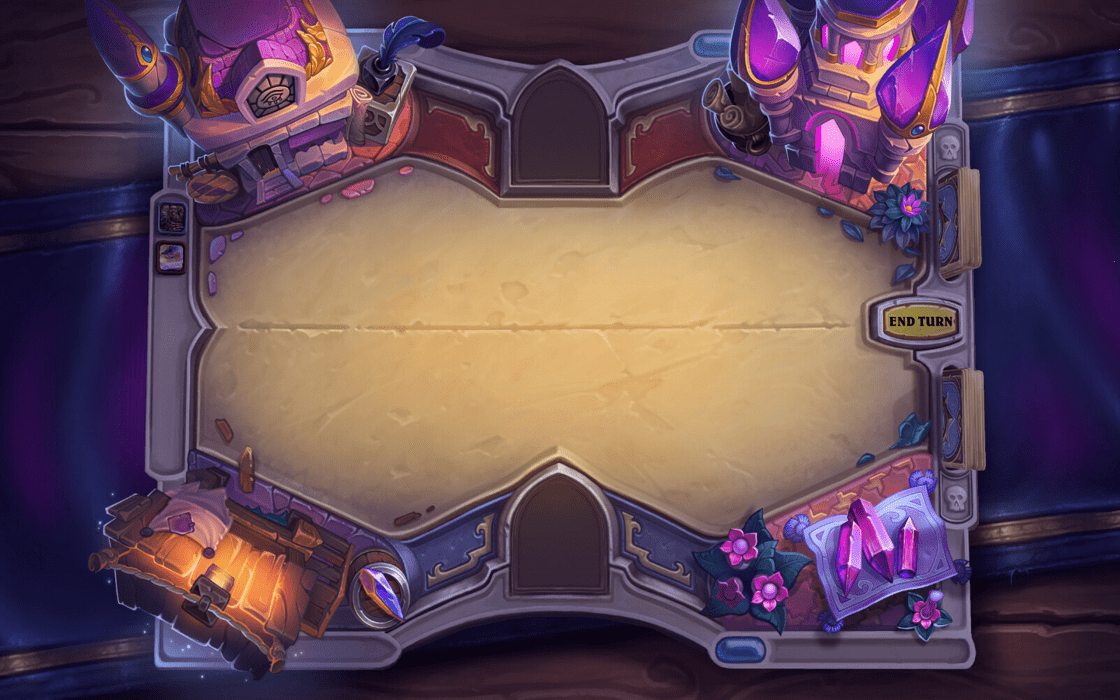
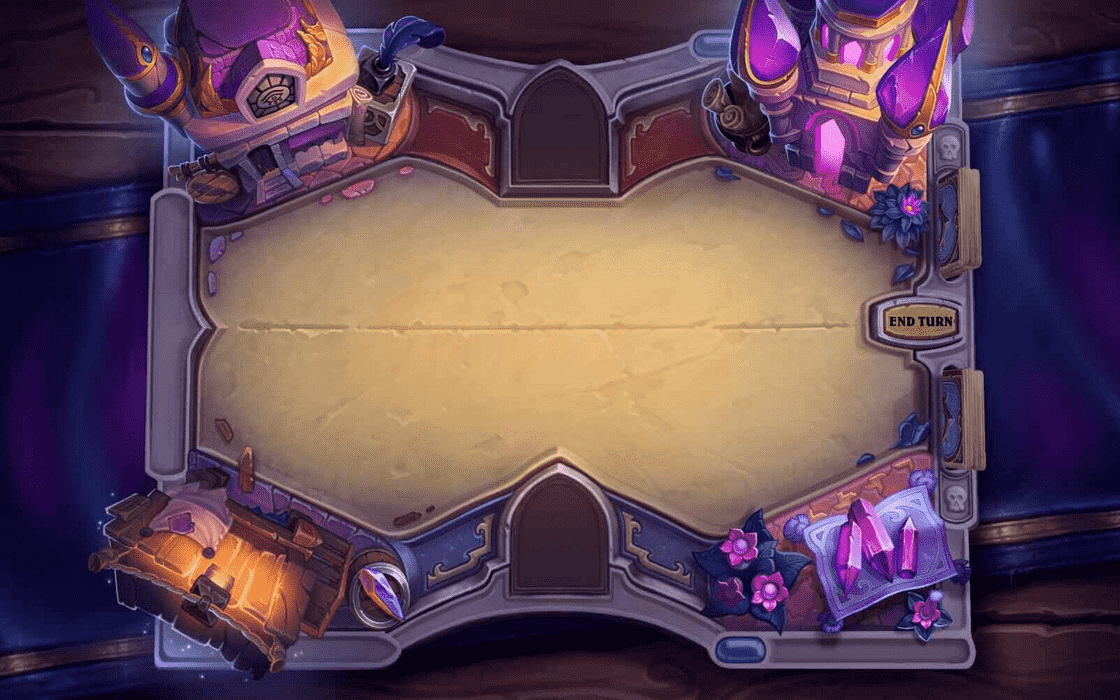
Hero power ability added to game board. Hero power images added to resources. font of "Favorite card : no card" changed.

diff --git a/src/java/hearthstone/gui/game/play/controls/HeroPowerButton.java b/src/java/hearthstone/gui/game/play/controls/HeroPowerButton.java
@@ -1,0 +1,82 @@
+package hearthstone.gui.game.play.controls;
+
+import hearthstone.gui.controls.ImageButton;
+import hearthstone.gui.credetials.CredentialsFrame;
+import hearthstone.logic.models.card.cards.HeroPowerCard;
+
+import javax.imageio.ImageIO;
+import java.awt.*;
+import java.awt.font.FontRenderContext;
+import java.awt.image.BufferedImage;
+
+public class HeroPowerButton extends ImageButton {
+
+    private int width, height;
+    private HeroPowerCard card;
+
+    public HeroPowerButton(HeroPowerCard card, int width, int height){
+        this.width = width;
+        this.height = height;
+        this.card = card;
+
+        configButton();
+    }
+
+    private void configButton() {
+        setPreferredSize(new Dimension(width, height));
+        setBorderPainted(false);
+        setFocusPainted(false);
+
+        addMouseListener(this);
+    }
+
+    @Override
+    protected void paintComponent(Graphics g) {
+        Graphics2D g2 = (Graphics2D) g;
+
+        BufferedImage cardImage = null;
+        BufferedImage circleImage = null;
+
+        try {
+            String path = "/images/cards/hero_power/" + card.getName().    // Hero Power card should replace
+                        toLowerCase().replace(' ', '_').replace("'", "") + ".png";
+            cardImage = ImageIO.read(this.getClass().getResourceAsStream(
+                    path));
+
+            path = "/images/cards/hero_power/" + "circle_frame.png";
+            circleImage = ImageIO.read(this.getClass().getResourceAsStream(
+                    path));
+        } catch (Exception e) {
+            System.out.println(e.getMessage());
+        }
+
+        g2.drawImage(cardImage.getScaledInstance(
+                width - 40, height - 40,
+                Image.SCALE_SMOOTH),
+                20, 20 + 5,
+                width - 40, height - 40,
+                null);
+
+        g2.drawImage(circleImage.getScaledInstance(
+                width, height,
+                Image.SCALE_SMOOTH),
+                0, 0,
+                width, height,
+                null);
+
+        drawMana(g2, String.valueOf(card.getManaCost()));
+    }
+
+    private void drawMana(Graphics2D g, String text){
+        Font font = CredentialsFrame.getInstance().getCustomFont(0, 30);
+        FontMetrics fontMetrics = g.getFontMetrics(font);
+        int width = fontMetrics.stringWidth(text);
+
+        int x = this.width / 2 - width / 2 + 2;
+        int y = 25;
+
+        g.setFont(font);
+        g.setColor(Color.WHITE);
+        g.drawString(text, x, y);
+    }
+}

diff --git a/src/java/hearthstone/gui/game/play/GameBoard.java b/src/java/hearthstone/gui/game/play/GameBoard.java
@@ -8,9 +8,9 @@ import hearthstone.gui.controls.SureDialog;
 import hearthstone.gui.credetials.CredentialsFrame;
 import hearthstone.gui.game.GameFrame;
 import hearthstone.gui.game.MainMenuPanel;
-import hearthstone.gui.game.play.boardstuff.BoardCardButton;
-import hearthstone.gui.game.play.boardstuff.BoardHeroButton;
-import hearthstone.gui.game.play.boardstuff.HeroPowerButton;
+import hearthstone.gui.game.play.controls.BoardCardButton;
+import hearthstone.gui.game.play.controls.BoardHeroButton;
+import hearthstone.gui.game.play.controls.HeroPowerButton;
 import hearthstone.gui.settings.SettingsDialog;
 import hearthstone.logic.gamestuff.Game;
 import hearthstone.logic.models.Player;
@@ -62,7 +62,7 @@ public class GameBoard extends JPanel {
     private final int myHeroX = midX - 60;
     private final int myHeroY = DefaultSizes.gameFrameHeight - 236;
 
-    private final int myHeroPowerX = midX - 160;
+    private final int myHeroPowerX = midX + 55;
     private final int myHeroPowerY = DefaultSizes.gameFrameHeight - 190;
 
     private final int heroWidth = BoardDefault.medHeroWidth;
@@ -86,7 +86,6 @@ public class GameBoard extends JPanel {
     private final int deckCardsNumberY = midY + 100;
 
     // Finals END
-
 
     public GameBoard(Player myPlayer, Player opponentPlayer, Game game) {
         this.myPlayer = myPlayer;
@@ -207,6 +206,7 @@ public class GameBoard extends JPanel {
             add(cardButton);
         }
     }
+
 
     private void drawCardsOnLand() {
         ArrayList<Card> cards = myPlayer.getLand();

diff --git a/src/java/hearthstone/gui/controls/deck/DeckButton.java b/src/java/hearthstone/gui/controls/deck/DeckButton.java
@@ -81,8 +81,14 @@ public class DeckButton extends ImageButton {
         g2.setFont(font);
         g2.drawString("mana average: " + String.valueOf(deck.getManaAv()), 155, stringStartY);
         g2.drawString("name: " + deck.getName(), 163, stringStartY + stringDis);
-        if (deck.getBestCard() == null)
-            g2.drawString("favorite card: no card", 155 , stringStartY + 2 * stringDis);
+
+        if (deck.getBestCard() == null) {
+            String text = "favorite card: no card";
+            font = GameFrame.getInstance().getCustomFont(0, getSize(text, maxCardNameWidth));
+            g2.setFont(font);
+
+            g2.drawString("favorite card: no card", 155, stringStartY + 2 * stringDis);
+        }
         else {
             String text = "favorite card: " + deck.getBestCard().getName();
             font = GameFrame.getInstance().getCustomFont(0, getSize(text, maxCardNameWidth));

diff --git a/src/java/hearthstone/logic/models/Account.java b/src/java/hearthstone/logic/models/Account.java
@@ -42,9 +42,7 @@ public class Account {
 
         ArrayList<Card> cards = new ArrayList<>();
         for (Card card : HearthStone.baseCards.values()) {
-            if (card.getId() % 2 == 0) {
-                unlockedCards.add(card.getId());
-            }
+            unlockedCards.add(card.getId());
             cards.add(card);
             cards.add(card);
         }

diff --git a/src/java/hearthstone/gui/game/play/BoardDefault.java b/src/java/hearthstone/gui/game/play/BoardDefault.java
@@ -13,6 +13,6 @@ public class BoardDefault {
     public static final int healthWidth = 35;
     public static final int healthHeight = 45;
 
-    public static final int heroPowerWidth = 90;
-    public static final int heroPowerHeight = 90;
+    public static final int heroPowerWidth = 110;
+    public static final int heroPowerHeight = 110;
 }

diff --git a/src/java/hearthstone/gui/game/play/controls/BoardHeroButton.java b/src/java/hearthstone/gui/game/play/controls/BoardHeroButton.java
@@ -1,6 +1,5 @@
-package hearthstone.gui.game.play.boardstuff;
+package hearthstone.gui.game.play.controls;
 
-import hearthstone.gui.DefaultSizes;
 import hearthstone.gui.controls.ImageButton;
 import hearthstone.gui.credetials.CredentialsFrame;
 import hearthstone.gui.game.play.BoardDefault;

diff --git a/src/java/hearthstone/gui/game/play/controls/BoardCardButton.java b/src/java/hearthstone/gui/game/play/controls/BoardCardButton.java
@@ -1,4 +1,4 @@
-package hearthstone.gui.game.play.boardstuff;
+package hearthstone.gui.game.play.controls;
 
 import hearthstone.gui.controls.ImageButton;
 import hearthstone.gui.credetials.CredentialsFrame;
